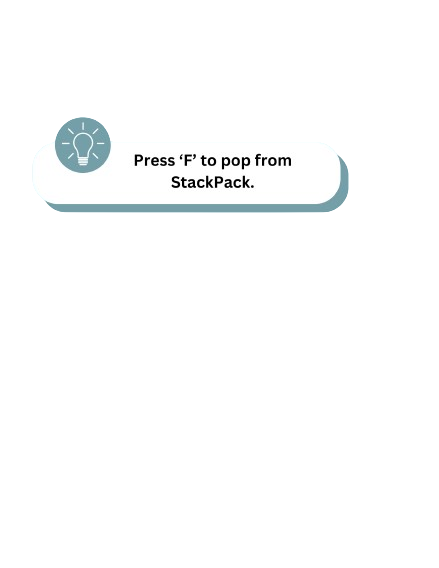
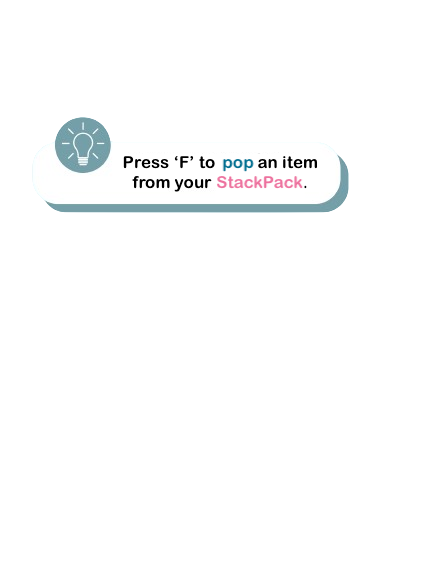
added glowing spots to make level 0 more of a learning experience

Changed region(s): [[0.2665, 0.2694, 0.7403, 0.3592]]

diff --git a/src/scenes/levelZero.ts b/src/scenes/levelZero.ts
@@ -18,6 +18,8 @@ export default class LevelZero extends Phaser.Scene {
     private popButton1?: Phaser.GameObjects.Image;
     private popButton2?: Phaser.GameObjects.Image;
     private movementInstruction?: Phaser.GameObjects.Image;
+    private orderInstruction?: Phaser.GameObjects.Image;
+    private glowingSpot?: Phaser.GameObjects.Image;
 
     private stack: Phaser.GameObjects.Sprite[] = [];
     private collectedItems: Phaser.GameObjects.Sprite[] = []; // To track all collected items (even after they're popped from stack)
@@ -40,7 +42,6 @@ export default class LevelZero extends Phaser.Scene {
 
     private levelCompleteText?: Phaser.GameObjects.Text;
     private playerDiedText?: Phaser.GameObjects.Text;
-    private howToPlayText?: Phaser.GameObjects.Text;
     private blackBackground: Phaser.GameObjects.Rectangle;
 
     constructor() {
@@ -50,6 +51,8 @@ export default class LevelZero extends Phaser.Scene {
     preload() {
         this.load.image("level0-background", "assets/level0-background.jpg");
         this.load.image("stackpack", "assets/stackpack.png");
+
+        this.load.image("glowingSpot", "assets/glowingSpot.png");
 
         this.load.spritesheet("key", "assets/key.png", {
             frameWidth: 768 / 24,
@@ -101,6 +104,8 @@ export default class LevelZero extends Phaser.Scene {
             "MovementInstructions",
             "assets/Movement-Instructions.png"
         );
+
+        this.load.image("OrderInstructions", "assets/Order-Instructions.png");
     }
 
     create() {
@@ -116,6 +121,9 @@ export default class LevelZero extends Phaser.Scene {
             .image(0, 0, "stackpack")
             .setPosition(1170, 165);
         stackpack.setScale(0.26, 0.26);
+
+        this.glowingSpot = this.add.image(350, 430, "glowingSpot");
+        this.glowingSpot.setScale(0.4);
 
         this.anims.create({
             key: "turn",
@@ -351,6 +359,10 @@ export default class LevelZero extends Phaser.Scene {
         this.movementInstruction = this.add
             .image(200, 600, "MovementInstructions")
             .setScale(1, 1);
+        this.orderInstruction = this.add
+            .image(1090, 380, "OrderInstructions")
+            .setScale(0.45);
+        this.orderInstruction.setVisible(false);
 
         this.pushDialogue.setVisible(false);
         this.popDialogue.setVisible(false);
@@ -396,18 +408,6 @@ export default class LevelZero extends Phaser.Scene {
         );
         this.blackBackground.setDepth(4);
         this.blackBackground.setAlpha(0);
-
-        // Temporary how to play text
-        this.howToPlayText = this.add.text(
-            20,
-            20,
-            "Press 'E' to collect (push) items \nPress 'F' to use (pop) items where you need them\n(Make sure they're at the top of your StackPack!)\nGood luck unlocking the door!",
-            {
-                fontSize: "26px",
-                color: "#03572a",
-                fontFamily: "Verdana",
-            }
-        );
     }
 
     private updateStackView() {
@@ -521,6 +521,7 @@ export default class LevelZero extends Phaser.Scene {
                         this.plankPlatform?.enableBody(true, 938, 650);
                     }
                     if (poppedItem.name === "key") {
+                        this.popButton2?.setVisible(false);
                         this.door?.setTexture("opendoor");
                         // Make the player get sucked into the door
                         if (this.player && this.door) {
@@ -587,6 +588,63 @@ export default class LevelZero extends Phaser.Scene {
     }
 
     update() {
+        // Continuously make glowing spot small and big
+        const minScaleX = 0.15; // Minimum scale on x-axis
+        const maxScaleX = 0.35; // Maximum scale on x-axis
+
+        // Calculate the scale factor based on the sine function
+        const scaleFactor = Math.sin(this.time.now / 400) * 0.5 + 0.5;
+
+        // Map the scaleFactor to the range between minScaleX and maxScaleX
+        const newScaleX = Phaser.Math.Linear(minScaleX, maxScaleX, scaleFactor);
+
+        // Set the new scale on the x-axis while maintaining the original scale on the y-axis
+        this.glowingSpot?.setScale(newScaleX, this.glowingSpot.scaleY);
+
+        // Check if the player is on top of the glowing spot and if so, move to next location
+        // After pushing plank
+        if (
+            this.player &&
+            this.glowingSpot &&
+            this.glowingSpot.x == 350 &&
+            this.stack.length > 0 &&
+            this.stack[this.stack.length - 1].name === "plank"
+        ) {
+            this.glowingSpot.setPosition(
+                this.plankDetectionArea1.x - 40,
+                this.plankDetectionArea1.y - 65
+            );
+        }
+        // After popping plank
+        if (
+            this.player &&
+            this.glowingSpot &&
+            this.plank &&
+            this.glowingSpot.x == this.plankDetectionArea1.x - 40 &&
+            this.plank.x == 815
+        ) {
+            this.glowingSpot.setPosition(1115, 560);
+        }
+        // At ladder and key area
+        if (
+            this.player &&
+            this.glowingSpot &&
+            this.glowingSpot.x == 1115 &&
+            Phaser.Math.Distance.Between(
+                this.player.x,
+                this.player.y,
+                this.glowingSpot.x,
+                this.glowingSpot.y
+            ) < 100
+        ) {
+            this.orderInstruction?.setVisible(true);
+            setTimeout(() => {
+                this.orderInstruction?.setVisible(false);
+                this.glowingSpot?.setVisible(false);
+                this.glowingSpot?.setPosition(1200, 560);
+            }, 4000);
+        }
+
         // Key animation
         if (this.key) {
             this.key.anims.play("turn", true);
@@ -601,7 +659,9 @@ export default class LevelZero extends Phaser.Scene {
                 this.cursors.left.isDown ||
                 this.cursors.space.isDown
             ) {
-                this.movementInstruction?.setVisible(false);
+                setTimeout(() => {
+                    this.movementInstruction?.setVisible(false);
+                }, 500);
             }
         }
 
@@ -787,7 +847,7 @@ export default class LevelZero extends Phaser.Scene {
             if (
                 Phaser.Geom.Intersects.RectangleToRectangle(
                     this.player.getBounds(),
-                    this.plankDetectionArea1.getBounds()
+                    this.plankDetectionAreasGroup.getBounds()
                 ) &&
                 this.stack[this.stack.length - 1].name === "plank"
             ) {
@@ -800,7 +860,7 @@ export default class LevelZero extends Phaser.Scene {
             this.popDialogue?.setVisible(false);
         }
 
-        // Making Text Boxes appear/dissapear: EtoPush DIALOGUE
+        // Making Text Boxes appear/disappear: EtoPush DIALOGUE
         if (this.player && this.plank) {
             if (
                 Phaser.Math.Distance.Between(
